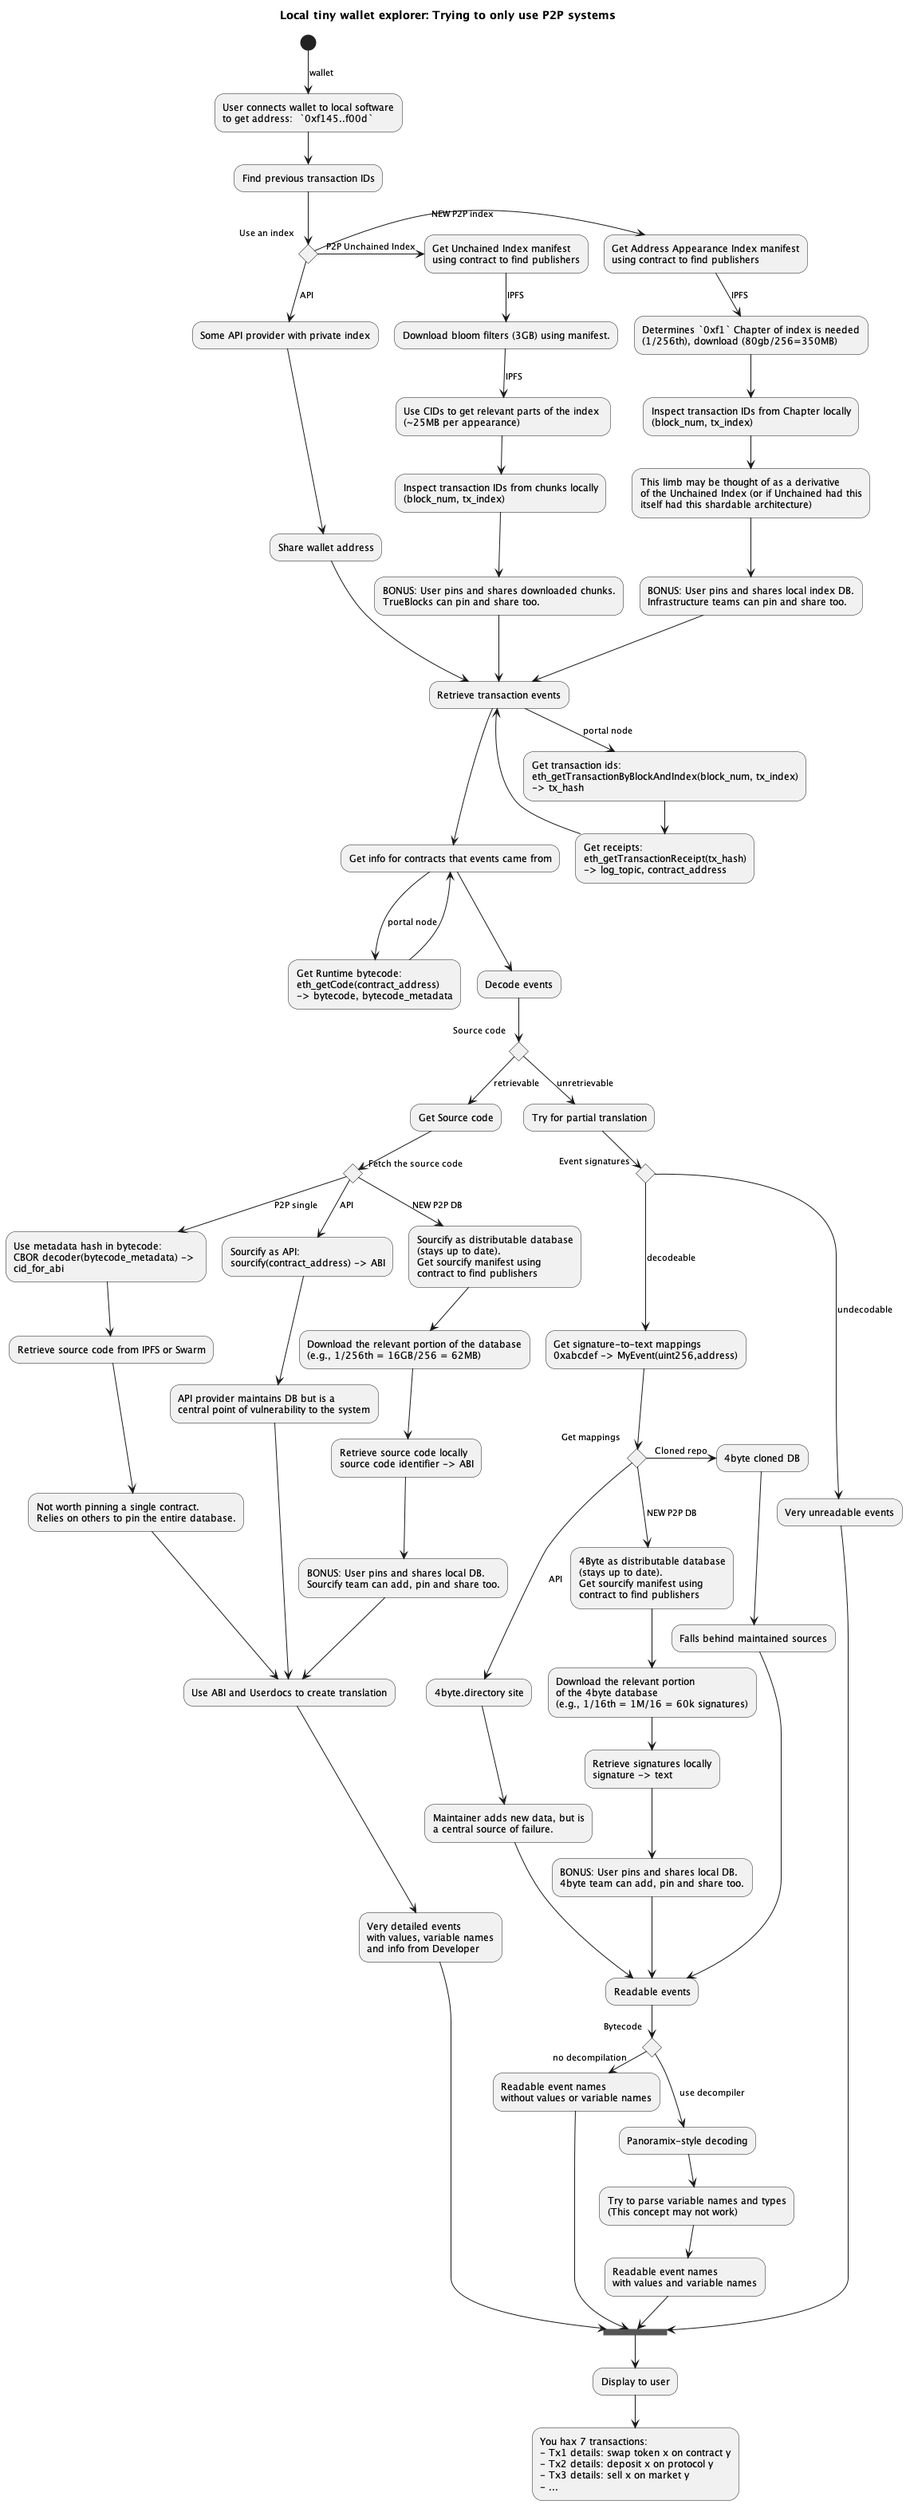
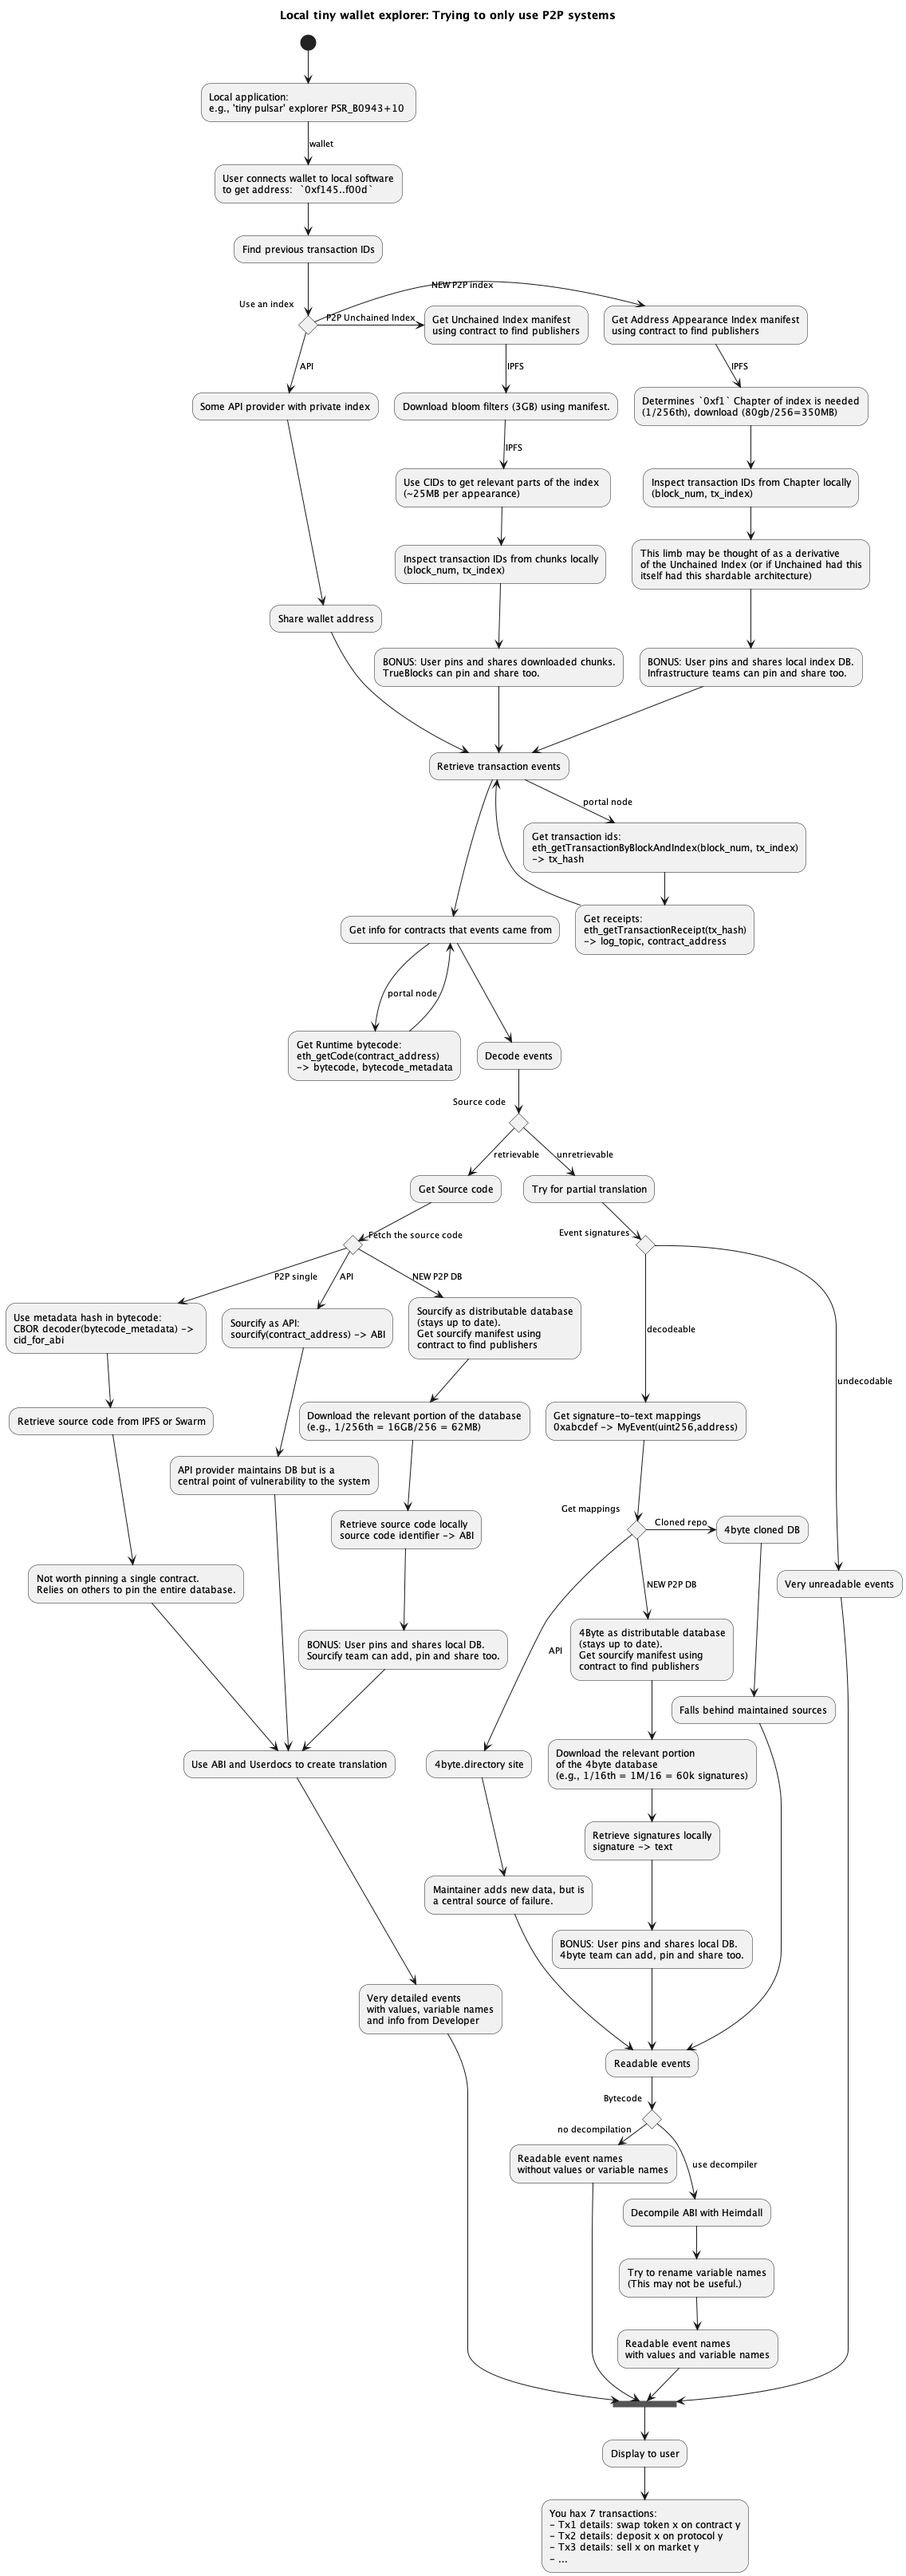
add psr_b0943+10 and use a table for parts

Changed region(s): [[0.0, 0.0312, 0.9859, 0.9987]]

diff --git a/docs/ethereum/protocol/poking.md b/docs/ethereum/protocol/poking.md
@@ -35,27 +35,50 @@ But it could be! The ingredients seem to be there at least.
 
 ---
 
-- [Part I - Musing: Is there an underserved user in the history-expiry roadmap? (Yes, a regular wallet user)](poking/part_1.md)
-- [Part II - Code: Can you divide a useful index into tiny useful parts? (Yes, prototype)](poking/part_2.md)
-- [Part III - Specifying: Could other clients use a divided index? (Yes, with a spec)](poking/part_3.md)
-- [Part IV - Examining: Does a divided index result in anything useful? (Yes, personal history)](poking/part_4.md)
-- [Part V - Remotes: Can remote resources make tx history human-readable? (Yes, through decoding and ABIs)](poking/part_5.md)
-- [Part VI - Acquisitions: Can useful remote resources become distributed (Yes, by generalising a format)](poking/part_6.md)
-- [Part VII - Coalesce: Is a local, lighthweight personal history browser a good idea? (Plausibly so)](poking/part_7.md)
-- [Part VIII - Hoovering: Can private API-based database curators coexist with distributed database design? (Yes, by standards for distribution)](poking/part_8.md)
+|Part|Question|Answer|
+|-|-|-|
+|[Part I: Musing](poking/part_1.md) | Is there an underserved user in the history-expiry roadmap? | Yes, a regular wallet user |
+|[Part II: Code](poking/part_2.md) | Can you divide a useful index into tiny useful parts? | Yes, prototype |
+|[Part III: Specifying](poking/part_3.md) | Could other clients use a divided index? | Yes, with a spec |
+|[Part IV: Examining](poking/part_4.md) | Does a divided index result in anything useful? | Yes, personal history |
+|[Part V: Remotes](poking/part_5.md) | Can remote resources make tx history human-readable? | Yes, through decoding and ABIs |
+|[Part VI: Acquisitions](poking/part_6.md) | Can useful remote resources become distributed? | Yes, by generalising a format |
+|[Part VII: Coalesce](poking/part_7.md) | Is a local, lighthweight personal history browser a good idea? | It's plausibly so |
+|[Part VIII: Hoovering](poking/part_8.md) | Can private API-based database curators coexist with distributed database design? | Yes, by standards for distribution |
 
 ---
 
 
 If you like, these are the spoilers that came out of this:
 
-- [An index spec to discover your own transactions with minimal data](https://github.com/perama-v/address-appearance-index-specs)
-- [An implementation prototype of the spec to build the index](https://github.com/perama-v/min-know)
-- [A generalisation of the format of the index as a potential ERC standard](https://github.com/perama-v/TODD)
-- [A generalisation of the broadcast mechanism as a potential ERC standard](https://github.com/perama-v/GAMB)
+- A meta-specification for a "Volumes and Chapters" publishing model.
+    - A formula for making data updateable, shardable and publisher-agnostic.
+        - Updateable (CIDs never change)
+        - Shardable (users can get subsets that are relevant to them)
+        - Publishser-agnostic (publishing is a protocol that anyone can follow)
+    - It is a meta-spec because it is a spec that other specs can comply with.
+    - [https://github.com/perama-v/TODD](https://github.com/perama-v/TODD)
+- A rust library using generics to implement the "Volumes and Chapters" publishing model.
+    - Allows arbitrary datastructures/databases to be converted into a "Volumes and Chapters" publishing model.
+    - [https://github.com/perama-v/min-know](https://github.com/perama-v/min-know)
+- A specification for transformation of the UnchainedIndex into a "Volumes and Chapters" publishing model.
+    - Used to discover your own transactions with minimal data
+    - Complies with the "Volumes and Chapters" TODD meta-spec.
+    - [https://github.com/perama-v/address-appearance-index-specs](https://github.com/perama-v/address-appearance-index-specs)
+- A smart contract standard for publishing.
+    - The "Volumes and Chapters" meta-spec outlines a manifest-based publishing model.
+    - A smart contract allows cencorship-resistant posting of IPNS names and publishing topics.
+    - [https://github.com/perama-v/GAMB](https://github.com/perama-v/GAMB)
+- A simple address exploration rust application that puts everything together.
+    - Tries to get wallet history with <1GB data and no APIs
+    - Essentially consists of
+        - An experimental "Volumes and Chapters" variant of the UnchainedIndex.
+        - A Portal node.
+        - The Heimdall decompiler.
+        - (TODO) Experimental "Volumes and Chapters" variants of 4byte registry, Sourcify and a names/tags database.
+    - [https://github.com/perama-v/PSR_B0943_10](https://github.com/perama-v/PSR_B0943_10)
 
-
-The "final product" is this "user interface" demo:
+The direction of this user interface demo is something like:
 
 ```
 [User: Clicks on their wallet]
